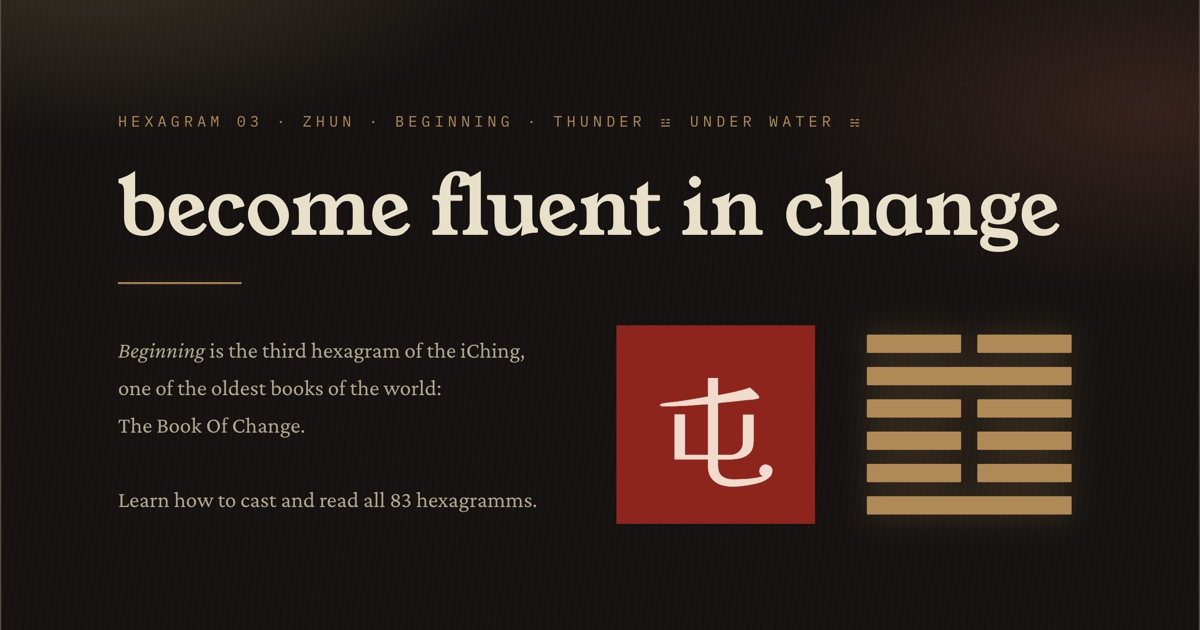
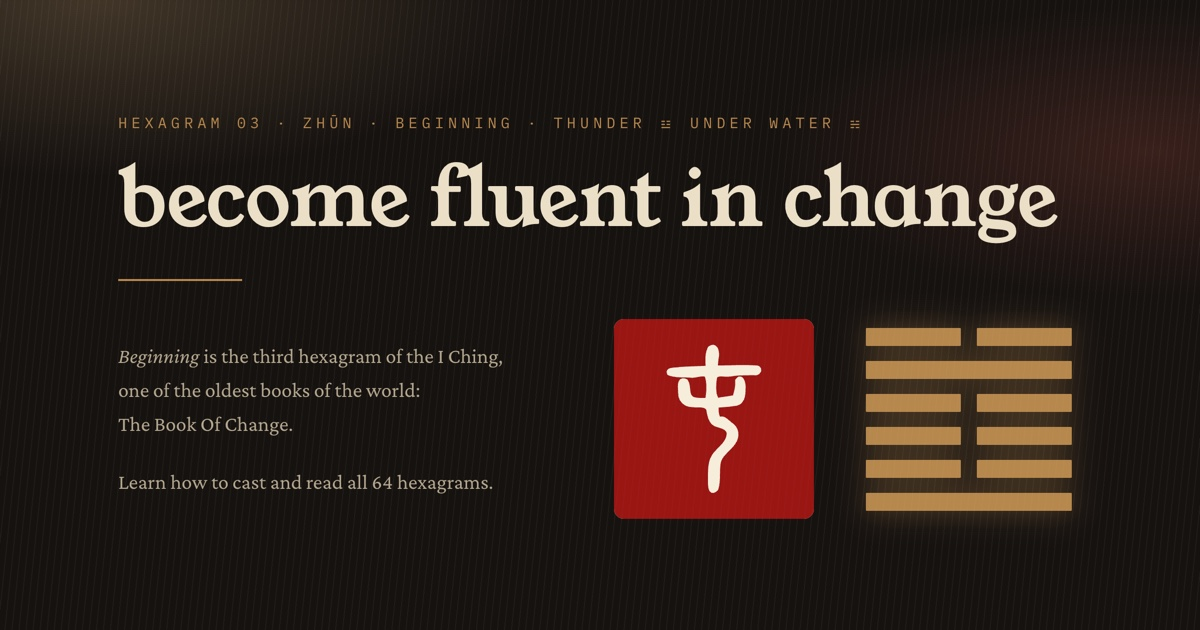
ching: rebuild the tile and link-preview image with the seal, and fix its text
The image said "all 83 hexagramms" and "iChing". It's now rendered from a template
(apps/ching/tools/og-template.html) with the project's own seal for hexagram 03, "all 64
hexagrams", "I Ching" and "Zhūn" with its tone mark. Used for the start-screen tile
(thumb-ching-400/800.avif) and ching's 1200x630 link preview.

diff --git a/apps/ching/tools/og-template.html b/apps/ching/tools/og-template.html
@@ -1,0 +1,60 @@
+<!doctype html>
+<!-- Source of ching's link preview (public/og-image.jpg, 1200x630) and the start-screen tile
+     (the hub's assets/thumb-ching-*.avif, 3:2). Not part of the site.
+     To re-render: open this file in Chrome at 1200x630 (preview) or 1200x800 (tile), device
+     scale 2, and screenshot. Paths are relative to this folder in the standalone ching
+     checkout (fonts from ../node_modules, colours from ../src/styles/tokens.css). -->
+<html lang="en"><head><meta charset="utf-8">
+<link rel="stylesheet" href="../src/styles/tokens.css">
+<link rel="stylesheet" href="../node_modules/@fontsource/young-serif/400.css">
+<link rel="stylesheet" href="../node_modules/@fontsource/crimson-pro/400.css">
+<link rel="stylesheet" href="../node_modules/@fontsource/crimson-pro/400-italic.css">
+<link rel="stylesheet" href="../node_modules/@fontsource/ibm-plex-mono/400.css">
+<style>
+  html, body { margin: 0; width: 100vw; height: 100vh; overflow: hidden; }
+  body { background-color: var(--surface-ground); background-image: var(--wash-lacquer); }
+  .card { position: relative; width: 100vw; height: 100vh; box-sizing: border-box;
+    padding: 0 118px; display: flex; flex-direction: column; justify-content: center; }
+  .card::after { content: ""; position: absolute; inset: 0; background-image: var(--wash-grain); pointer-events: none; }
+  .eyebrow { font-family: var(--font-label); font-size: 15px; letter-spacing: .28em; text-transform: uppercase;
+    color: var(--bronze-500); white-space: nowrap; }
+  h1 { font-family: var(--font-display); font-weight: 400; font-size: 80px; line-height: 1; margin: 24px 0 0; white-space: nowrap;
+    color: var(--text-on-dark); letter-spacing: -0.005em; }
+  .rule { width: 124px; height: 2px; background: var(--bronze-500); margin: 40px 0 0; border: 0; }
+  .row { display: flex; align-items: center; justify-content: space-between; margin-top: 38px; }
+  .text { font-family: var(--font-body); font-size: 21px; line-height: 1.62; color: var(--bone-200); margin: 0; }
+  .text em { font-style: italic; }
+  .text + .text { margin-top: 24px; }
+  .art { display: flex; align-items: center; gap: 52px; margin-right: 10px; }
+  .seal { width: 200px; height: 200px; display: block; background: var(--paper-050); border-radius: 10px; overflow: hidden; }
+  .seal svg { width: 100%; height: 100%; display: block; fill: var(--surface-seal); }
+  .hex { display: flex; flex-direction: column-reverse; gap: 15px; width: 206px;
+    filter: drop-shadow(0 0 14px rgba(183,136,77,.45)); }
+  .line { display: flex; gap: 16px; height: 18px; }
+  .line span { flex: 1; background: var(--bronze-500); border-radius: 1px; }
+</style></head>
+<body>
+<div class="card">
+  <div class="eyebrow">Hexagram 03 · Zhūn · Beginning · Thunder ☳ under Water ☵</div>
+  <h1>become fluent in change</h1>
+  <hr class="rule">
+  <div class="row">
+    <div>
+      <p class="text"><em>Beginning</em> is the third hexagram of the I Ching,<br>one of the oldest books of the world:<br>The Book Of Change.</p>
+      <p class="text">Learn how to cast and read all 64 hexagrams.</p>
+    </div>
+    <div class="art">
+      <div class="seal" role="img" aria-label="Seal of hexagram 03, Zhūn"><svg xmlns="http://www.w3.org/2000/svg" viewBox="0 0 100 100" role="img"><title>屯</title><defs><mask id="seal-mask-03"><rect width="100%" height="100%" fill="white"/><g fill="black" stroke="black" stroke-width="2.2" stroke-linejoin="round" stroke-linecap="round"><path d="M48.1 80.9C48.2 76.2 47.6 70.8 51.1 67.1C53.7 64.3 57.3 61.6 57.5 57.4C57.4 54.6 54.3 53.7 52 53.1C48.2 52.3 47.8 48.2 47.2 45C45.6 42.3 41.7 43.5 39 43C35.7 43.1 33 40.3 33.2 37C33.2 34.8 32.1 29.3 36 31.1C37.7 33.7 36.1 38 39.1 39.9C41.5 40.9 44.2 40.5 46.7 40.6C47.4 36.4 47.8 32.1 46.4 28.1C43.9 26.7 40.5 28.9 37.6 28.2C34.3 28.1 30.7 28.3 27.6 27.2C26.4 24.9 31.5 25.6 33 25.1C37.6 24.8 42.2 24.7 46.9 24.5C47 21.2 46.3 17.6 48 14.6C51.3 12.2 51.9 17.6 51.2 19.8C51 21.3 50.9 22.9 50.8 24.4C57.4 24.4 64 23.9 70.6 24.3C74.1 24.1 72.4 27.9 69.8 27C65.9 27.2 61.9 26.9 58.1 27.7C55.7 28.2 52 26.7 50.5 28.9C50 31.8 49.8 34.8 50.3 37.7C50.9 39 50.9 41.2 53.3 40.3C55.7 40 58.1 39.6 60.4 39.2C61.2 36.5 62 33.7 61.7 30.8C63.9 27.7 65.1 33.1 64.7 35C64.8 37.7 64.4 41.5 61.3 42.3C58 42.9 54.7 43 51.3 43.3C51.2 45.7 51 48.4 52.8 50.3C54.8 48.7 57 52.1 59.1 53.3C61.7 55.4 61.7 59.3 59.8 61.8C57.5 65.5 52.6 67.8 52.2 72.6C51.6 76.7 52.4 81 51.1 85C48 88.2 48.1 82.7 48.1 80.9Z"/></g></mask></defs><rect width="100" height="100" rx="3" style="fill:var(--seal-color,#B3261E)" mask="url(#seal-mask-03)"/></svg></div>
+      <!-- Hexagram 03, bottom to top: yang, yin, yin, yin, yang, yin -->
+      <div class="hex">
+        <div class="line"><span></span></div>
+        <div class="line"><span></span><span></span></div>
+        <div class="line"><span></span><span></span></div>
+        <div class="line"><span></span><span></span></div>
+        <div class="line"><span></span></div>
+        <div class="line"><span></span><span></span></div>
+      </div>
+    </div>
+  </div>
+</div>
+</body></html>
